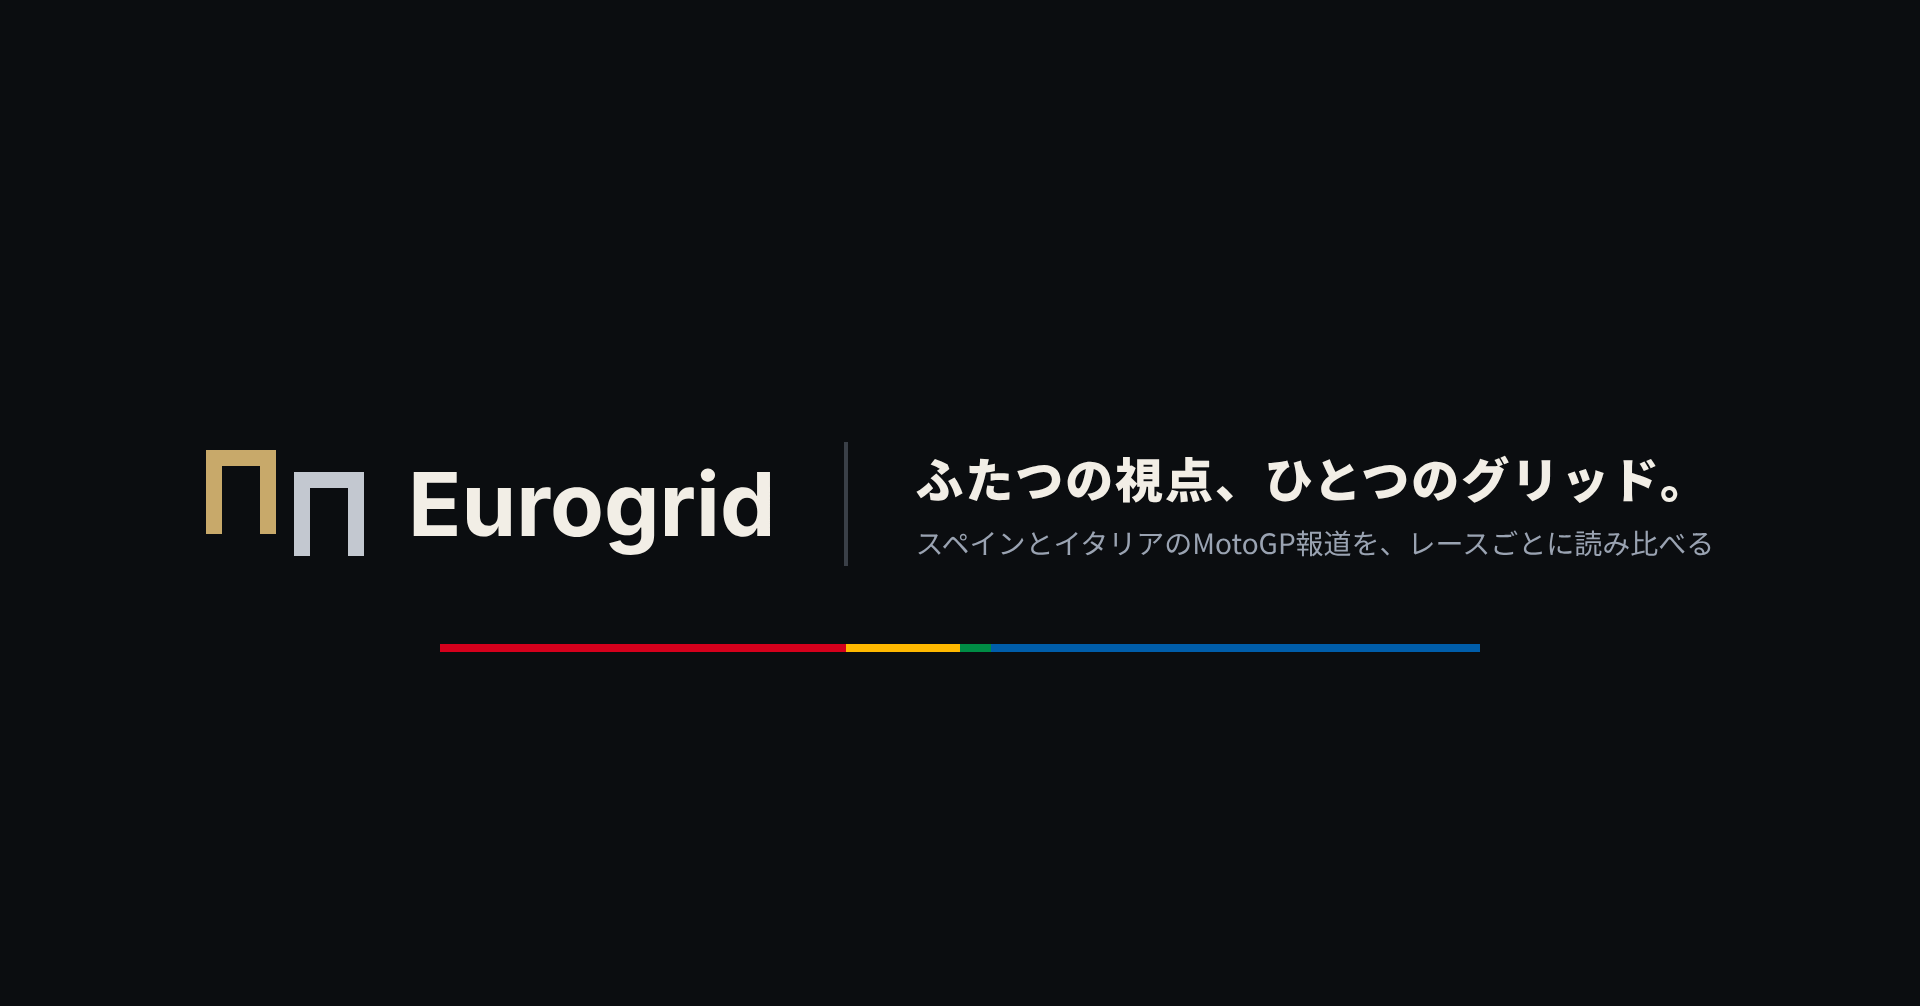
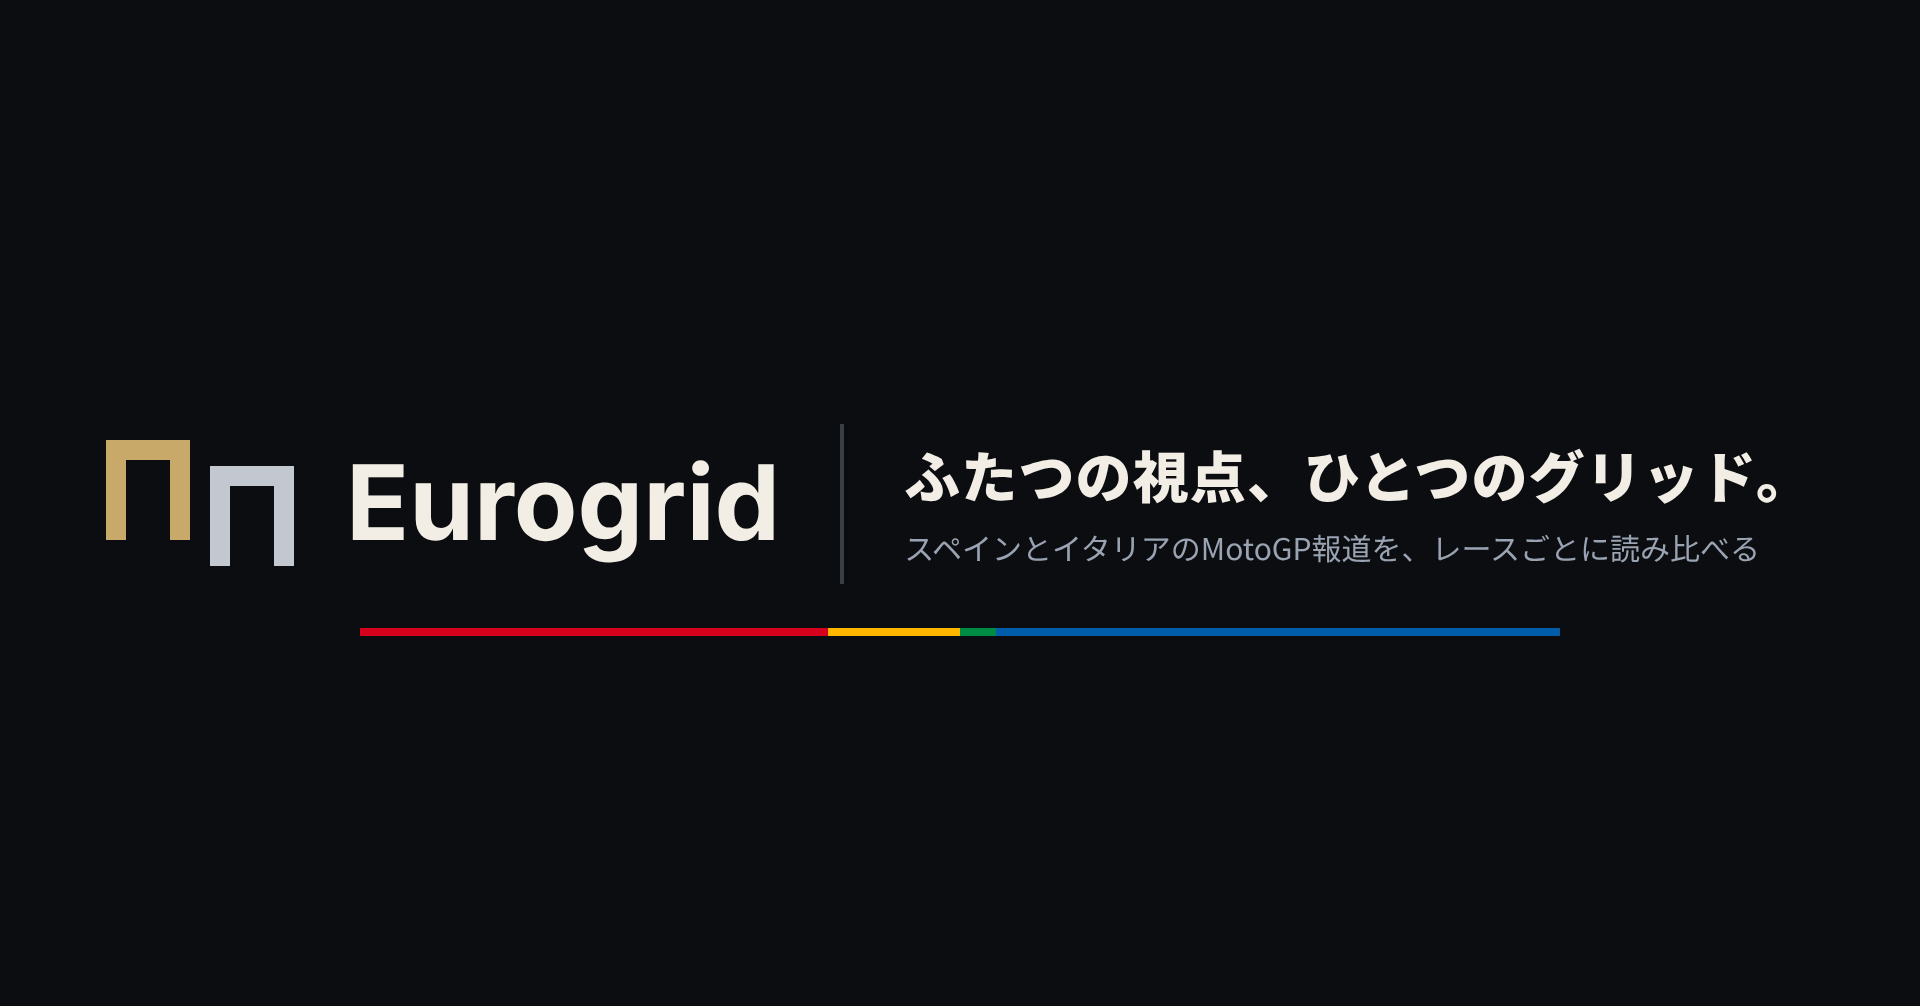
noteのヘッダーの文字を大きく（PCで見える横帯に合わせる）
Claude-Session: https://claude.ai/code/session_01V2824Pft2WRVq1ydvKhZPw

Changed region(s): [[0.4375, 0.4314, 0.9375, 0.5547], [0.0312, 0.4314, 0.4062, 0.5547], [0.1875, 0.6163, 0.8125, 0.6471]]

diff --git a/templates/note_header.html b/templates/note_header.html
@@ -1,12 +1,12 @@
 <!doctype html><html><head><meta charset="utf-8"><link rel="stylesheet" href="brand.css"><style>
 /* note のプロフィールのヘッダー 1920×1006（960×503 を2倍で）。PCでは真ん中の横帯しか見えないので、中身は縦の中央に1行の帯でまとめる */
 body{width:960px;height:503px;position:relative;display:flex;align-items:center;justify-content:center}
-.row{display:flex;align-items:center;gap:34px}
-.logo{font-size:44px}
-.v{width:2px;height:62px;background:var(--line);background:#3A3F47}
-.copy{font-size:24px;font-weight:900;letter-spacing:.04em}
-.sub{margin-top:6px;font-size:14px;color:var(--sub)}
-.bars{position:absolute;left:0;right:0;top:50%;margin-top:70px;height:4px;display:flex;width:520px;left:220px}.bars .es{flex:1;background:linear-gradient(90deg,var(--es) 0 78%,var(--es2) 78%)}.bars .it{flex:1;background:linear-gradient(90deg,var(--it-stripe) 0 6%,var(--it) 6%)}
+.row{display:flex;align-items:center;gap:30px}
+.logo{font-size:52px}
+.v{width:2px;height:80px;background:#3A3F47}
+.copy{font-size:28px;font-weight:900;letter-spacing:.02em}
+.sub{margin-top:6px;font-size:15px;color:var(--sub)}
+.bars{position:absolute;left:0;right:0;top:50%;margin-top:62px;height:4px;display:flex;width:600px;left:180px}.bars .es{flex:1;background:linear-gradient(90deg,var(--es) 0 78%,var(--es2) 78%)}.bars .it{flex:1;background:linear-gradient(90deg,var(--it-stripe) 0 6%,var(--it) 6%)}
 </style></head><body>
 <div class="row"><div class="logo"><span class="mark"><i></i><i></i></span>Eurogrid</div><div class="v"></div><div><div class="copy">ふたつの視点、ひとつのグリッド。</div><div class="sub">スペインとイタリアのMotoGP報道を、レースごとに読み比べる</div></div></div>
 <div class="bars"><div class="es"></div><div class="it"></div></div>
